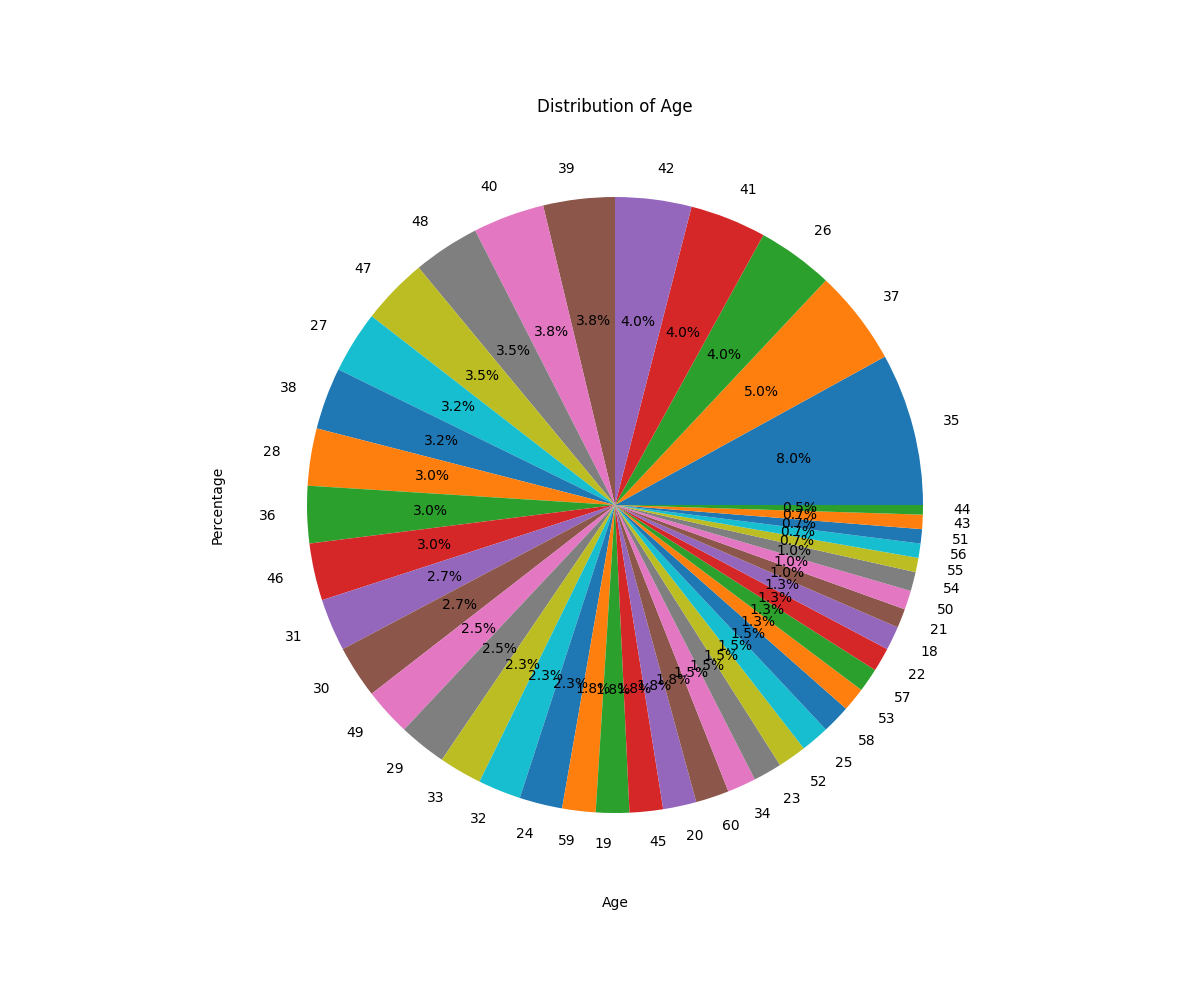
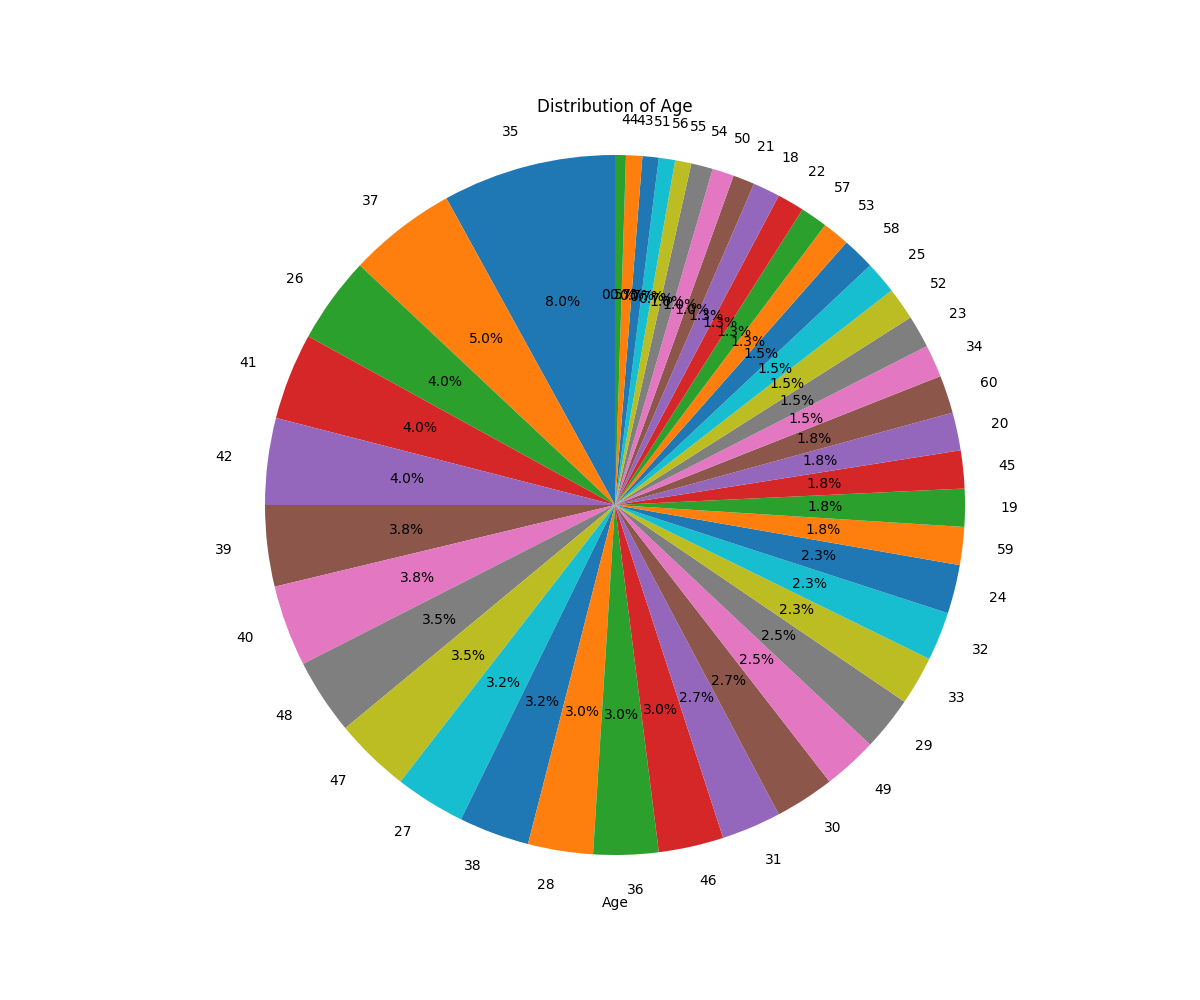
final commit

diff --git a/main.py b/main.py
@@ -165,7 +165,7 @@ def plot_graph(state) -> None:
 
         # exec(answer)  
         #sleep the program for 1 second to allow the file to be created
-        time.sleep(5)
+        time.sleep(4)
         state.figure = "my_plot1.png"       
         state.code = "generated_script.py"
         
@@ -174,20 +174,28 @@ def plot_graph(state) -> None:
         state.question = "Error occurred. Please try again...!"
         if type(e) == openai.error.APIError:
             print("OpenAI API Error. Please try again a short time later. (" + str(e) + ")")
+            state.question = "Error occurred. Please try again...!"
         elif type(e) == openai.error.Timeout:
             print("OpenAI API Error. Your request timed out. Please try again a short time later. (" + str(e) + ")")
+            state.question = "Error occurred. Please try again...!"
         elif type(e) == openai.error.RateLimitError:
             print("OpenAI API Error. You have exceeded your assigned rate limit. (" + str(e) + ")")
+            state.question = "Error occurred. Please try again...!"
         elif type(e) == openai.error.APIConnectionError:
             print("OpenAI API Error. Error connecting to services. Please check your network/proxy/firewall settings. (" + str(e) + ")")
+            state.question = "Error occurred. Please try again...!"
         elif type(e) == openai.error.InvalidRequestError:
             print("OpenAI API Error. Your request was malformed or missing required parameters. (" + str(e) + ")")
+            state.question = "Error occurred. Please try again...!"
         elif type(e) == openai.error.AuthenticationError:
             print("Please enter a valid OpenAI API Key. (" + str(e) + ")")
+            state.question = "Error occurred. Please try again...!"
         elif type(e) == openai.error.ServiceUnavailableError:
-            print("OpenAI Service is currently unavailable. Please try again a short time later. (" + str(e) + ")")               
+            print("OpenAI Service is currently unavailable. Please try again a short time later. (" + str(e) + ")")   
+            state.question = "Error occurred. Please try again...!"            
         else:
             print("Unfortunately the code generated from the model contained errors and was unable to execute.")
+            state.question = "Error occurred. Please try again...!"
 
         
 
@@ -201,7 +209,7 @@ pages = {
     "About": page2_md
 }
 
-Gui(pages=pages).run(stylekit=stylekit)
+Gui(pages=pages).run(title="Graph Generator" , stylekit=stylekit, debug = True)
 
 # run the app
 #Gui(page=Graphy_app).run(title="Graph Generator")

diff --git a/functions.py b/functions.py
@@ -19,9 +19,9 @@ def get_primer(df_dataset,df_name):
             primer_desc = primer_desc + "\nThe column '" + i + "' is type " + str(df_dataset.dtypes[i]) + " and contains numeric values. "   
     primer_desc = primer_desc + "\nLabel the x and y axes appropriately."
     primer_desc = primer_desc + "\nAdd a title. Set the fig suptitle as empty."
-    primer_desc = primer_desc + "\nNO Need for plt.show() function omit it." # Space for additional instructions if needed
+    primer_desc = primer_desc + "\nonly use plot and dont add multi line comments.\n Also add any ML modules needed if neccessary" # Space for additional instructions if needed
     primer_desc = primer_desc + "\nUsing Python version 3.9.12, create a script using the dataframe df to graph the following: "
-    pimer_code = "import pandas as pd\nimport matplotlib.pyplot as plt\n"
+    pimer_code = "import pandas as pd\nimport matplotlib.pyplot as plt\nimport numpy as np\nfrom sklearn.linear_model import LinearRegression\n"
     pimer_code = pimer_code + "fig,ax = plt.subplots(1,1,figsize=(12,10))\n"
     pimer_code = pimer_code + "ax.spines['top'].set_visible(False)\nax.spines['right'].set_visible(False) \n"
     pimer_code = pimer_code + "df=" + "pd.read_csv(\"data.csv\")\n"

diff --git a/generated_script.py b/generated_script.py
@@ -1,18 +1,20 @@
 import pandas as pd
 import matplotlib.pyplot as plt
+import numpy as np
+from sklearn.linear_model import LinearRegression
 fig,ax = plt.subplots(1,1,figsize=(12,10))
 ax.spines['top'].set_visible(False)
 ax.spines['right'].set_visible(False) 
 df=pd.read_csv("data.csv")
-# Filter columns
-age_data = df['Age']
-# Count frequency of each age
-age_counts = age_data.value_counts()
-# Plot pie chart
-ax.pie(age_counts, labels=age_counts.index, autopct='%1.1f%%')
-# Set title and axes labels
-ax.set_title("Distribution of Age")
-ax.set_xlabel("Age")
-ax.set_ylabel("Percentage")
+# Create a pie chart for age
+age_counts = df['Age'].value_counts()
+labels = age_counts.index
+values = age_counts.values
+
+ax.pie(values, labels=labels, startangle=90, autopct='%1.1f%%')
+ax.axis('equal')
+
+plt.title('Distribution of Age')
+plt.xlabel('Age')
 my_plot = plt.gcf()
 my_plot.savefig('my_plot1.png')
